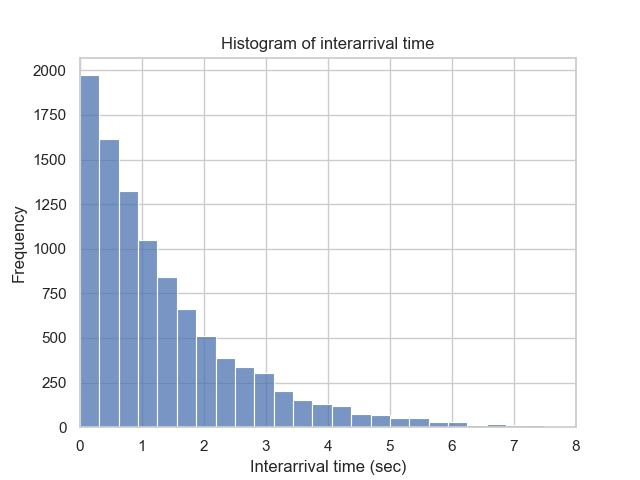
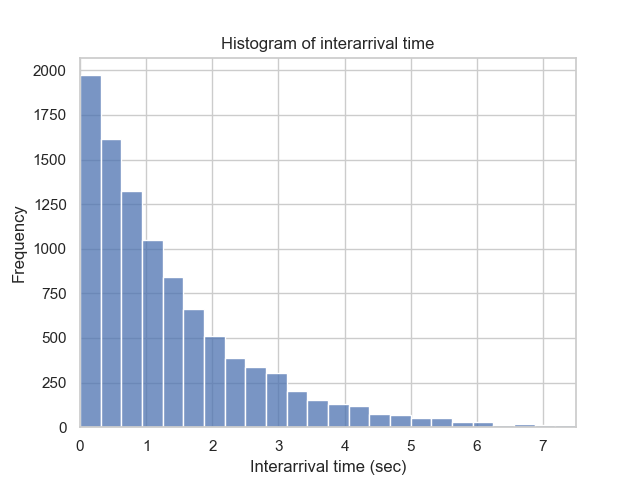
added feature to calculate estimator, normalise histogram, and plot pdf

diff --git a/input_analysis.py b/input_analysis.py
@@ -1,22 +1,41 @@
+import numpy as np
 import pandas as pd
 import seaborn as sns
 import matplotlib.pyplot as plt
 
 
-def interarrival_time_histogram(df):
-    """Generates histogram for intearrival times"""
+def interarrival_time_histogram(df, bins=40, pdf=False):
+    """Generates histogram for intearrival times, or normalised histogram
+    with estimated probability density function if pdf is set to True"""
 
     sns.set(style='whitegrid')
-    sns.histplot(data=df, x='Interarrival time (sec)', bins=40)
+    plt.figure()
     plt.xlabel('Interarrival time (sec)')
     plt.ylabel('Frequency')
     plt.title('Histogram of interarrival time')
-    plt.xlim(0,8)
-    plt.savefig('figures/interarrival_time_histogram.png')
+    xlim = 7.5
+    plt.xlim(0,xlim)
+
+    if pdf is False:
+        # Plot histogram.
+        sns.histplot(data=df, x='Interarrival time (sec)', bins=bins)
+        plt.savefig('figures/interarrival_time_histogram.png')
+
+    else:
+        # Plot normalised histogram.
+        sns.histplot(data=df, x='Interarrival time (sec)', bins=bins, stat='density')
+        # Calculate estimator for exponential distribution
+        x = np.linspace(0, xlim, 1000)
+        estimator = df['Interarrival time (sec)'].mean()
+        pdf = 1/estimator * np.exp(-x/estimator)
+        # Plot estimated pdf
+        plt.plot(x,pdf,'r')
+        plt.savefig('figures/interarrival_time_pdf.png')
+
     plt.show()
 
 
-def base_station_histogram(df):
+def base_station_histogram(df, pde=True):
     """Generates histogram for base stations where calls are generated"""
 
     sns.set(style='whitegrid')
@@ -29,7 +48,7 @@ def base_station_histogram(df):
     plt.show()
 
 
-def call_duration_histogram(df):
+def call_duration_histogram(df, pde=True):
     """Generates histogram for call duration"""
 
     sns.set(style='whitegrid')
@@ -57,7 +76,7 @@ def car_speed_histogram(df):
 
 if __name__ == '__main__':
     df = pd.read_excel('simulation_data.xls')
-    # interarrival_time_histogram(df)
+    interarrival_time_histogram(df,pdf=True)
     # base_station_histogram(df)
     # call_duration_histogram(df)
-    car_speed_histogram(df)
+    # car_speed_histogram(df)
